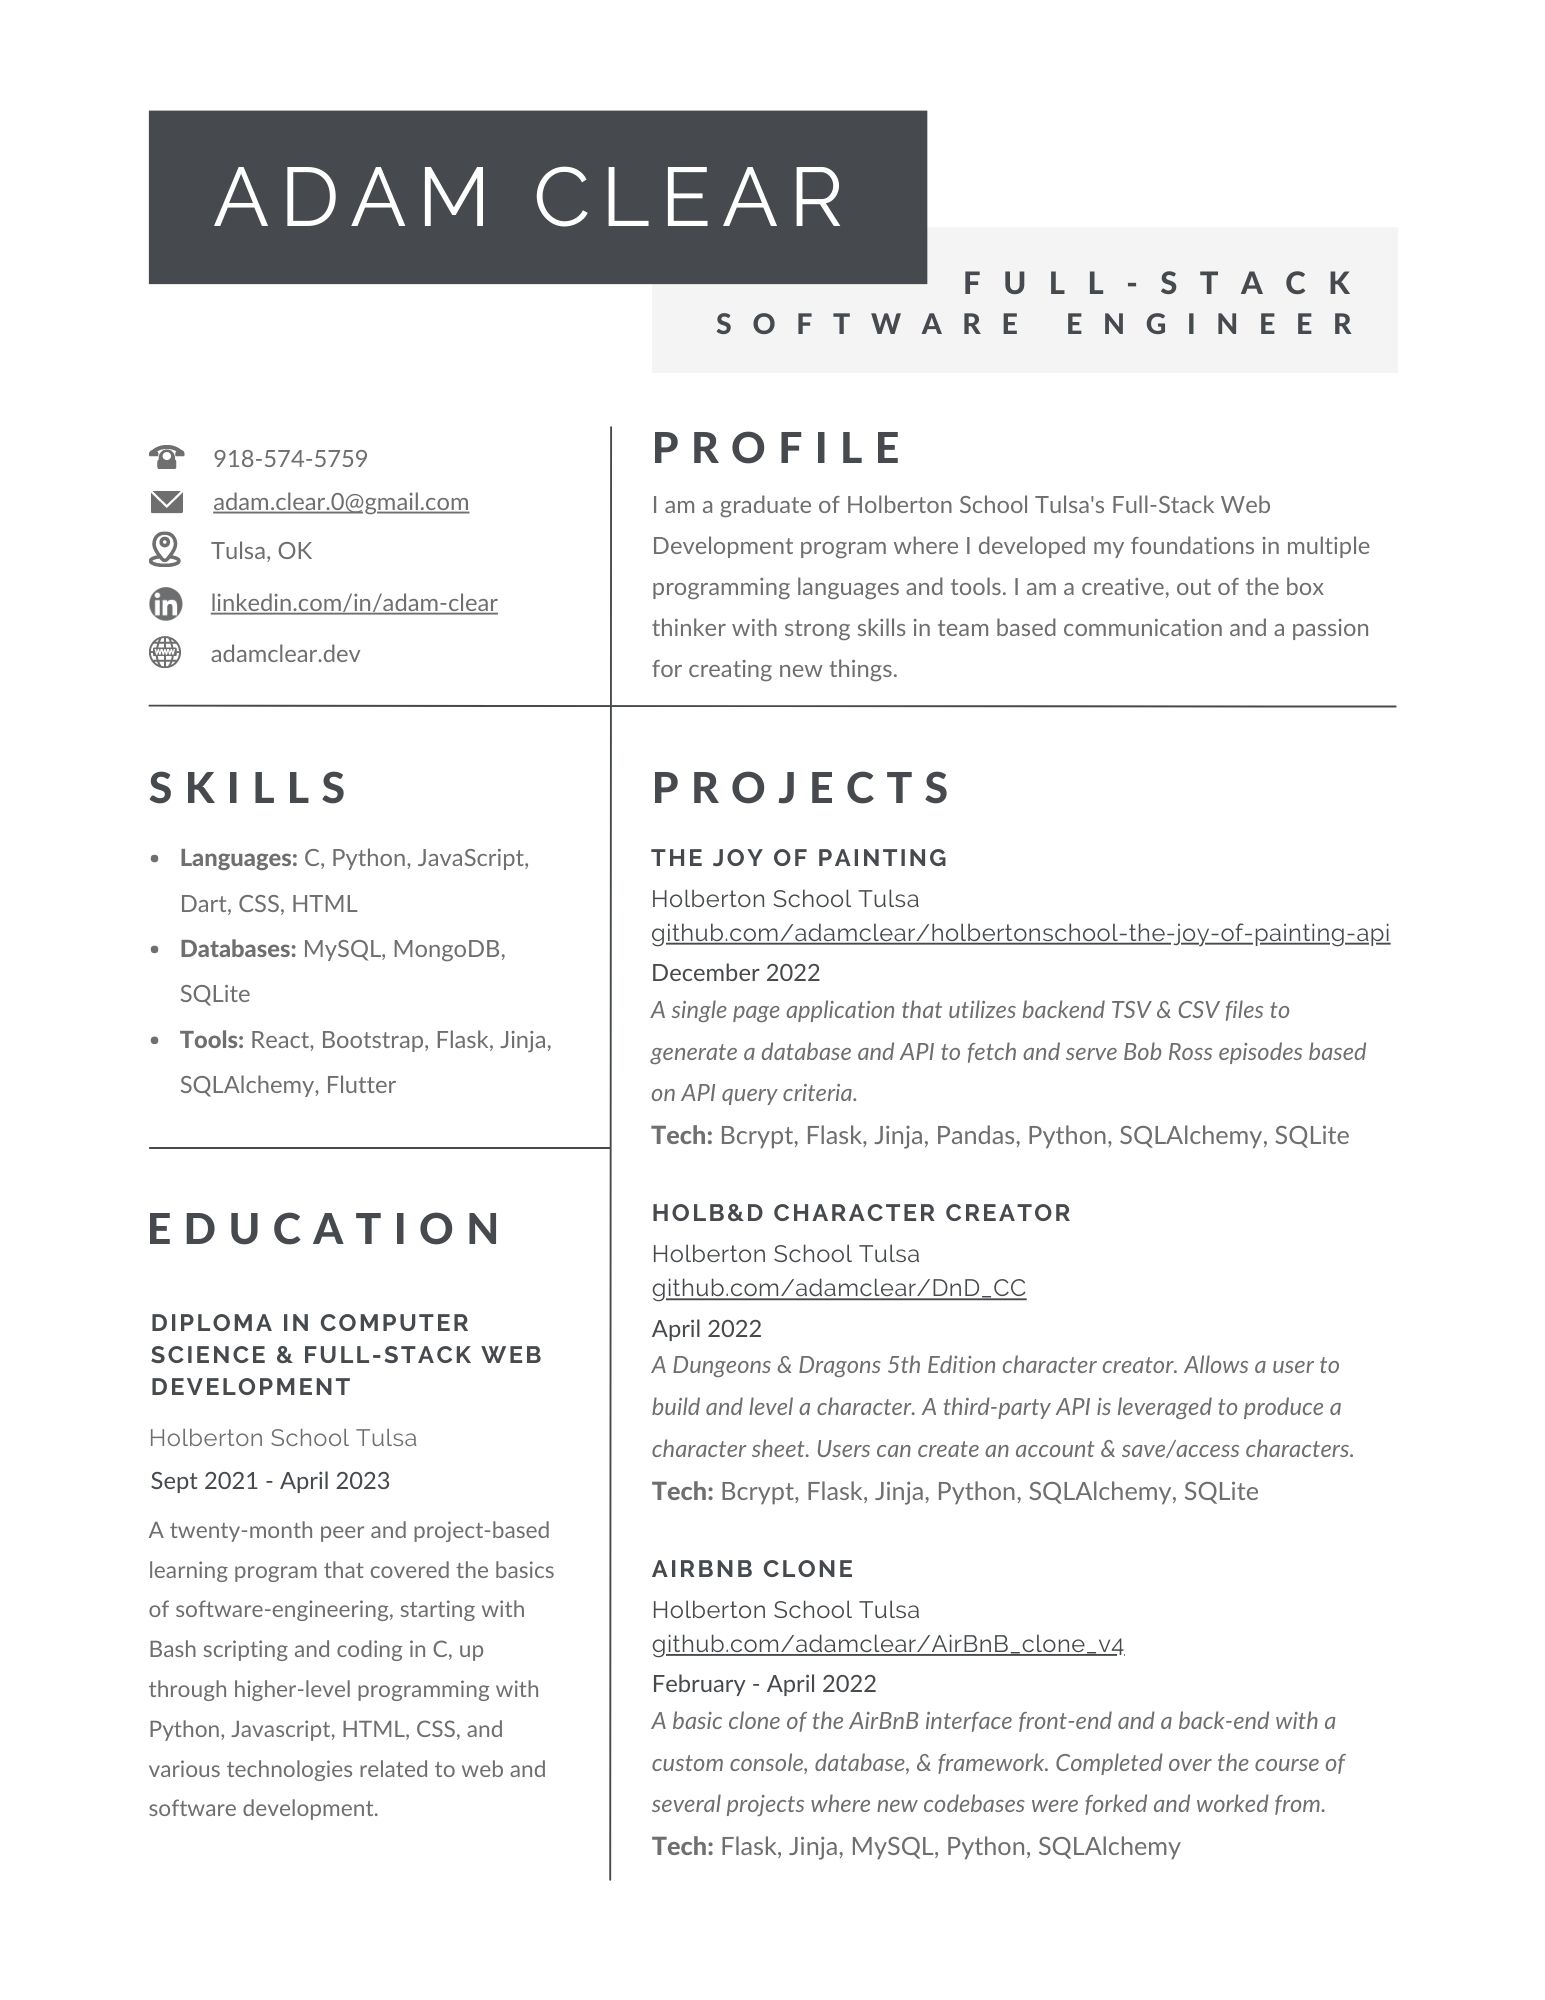
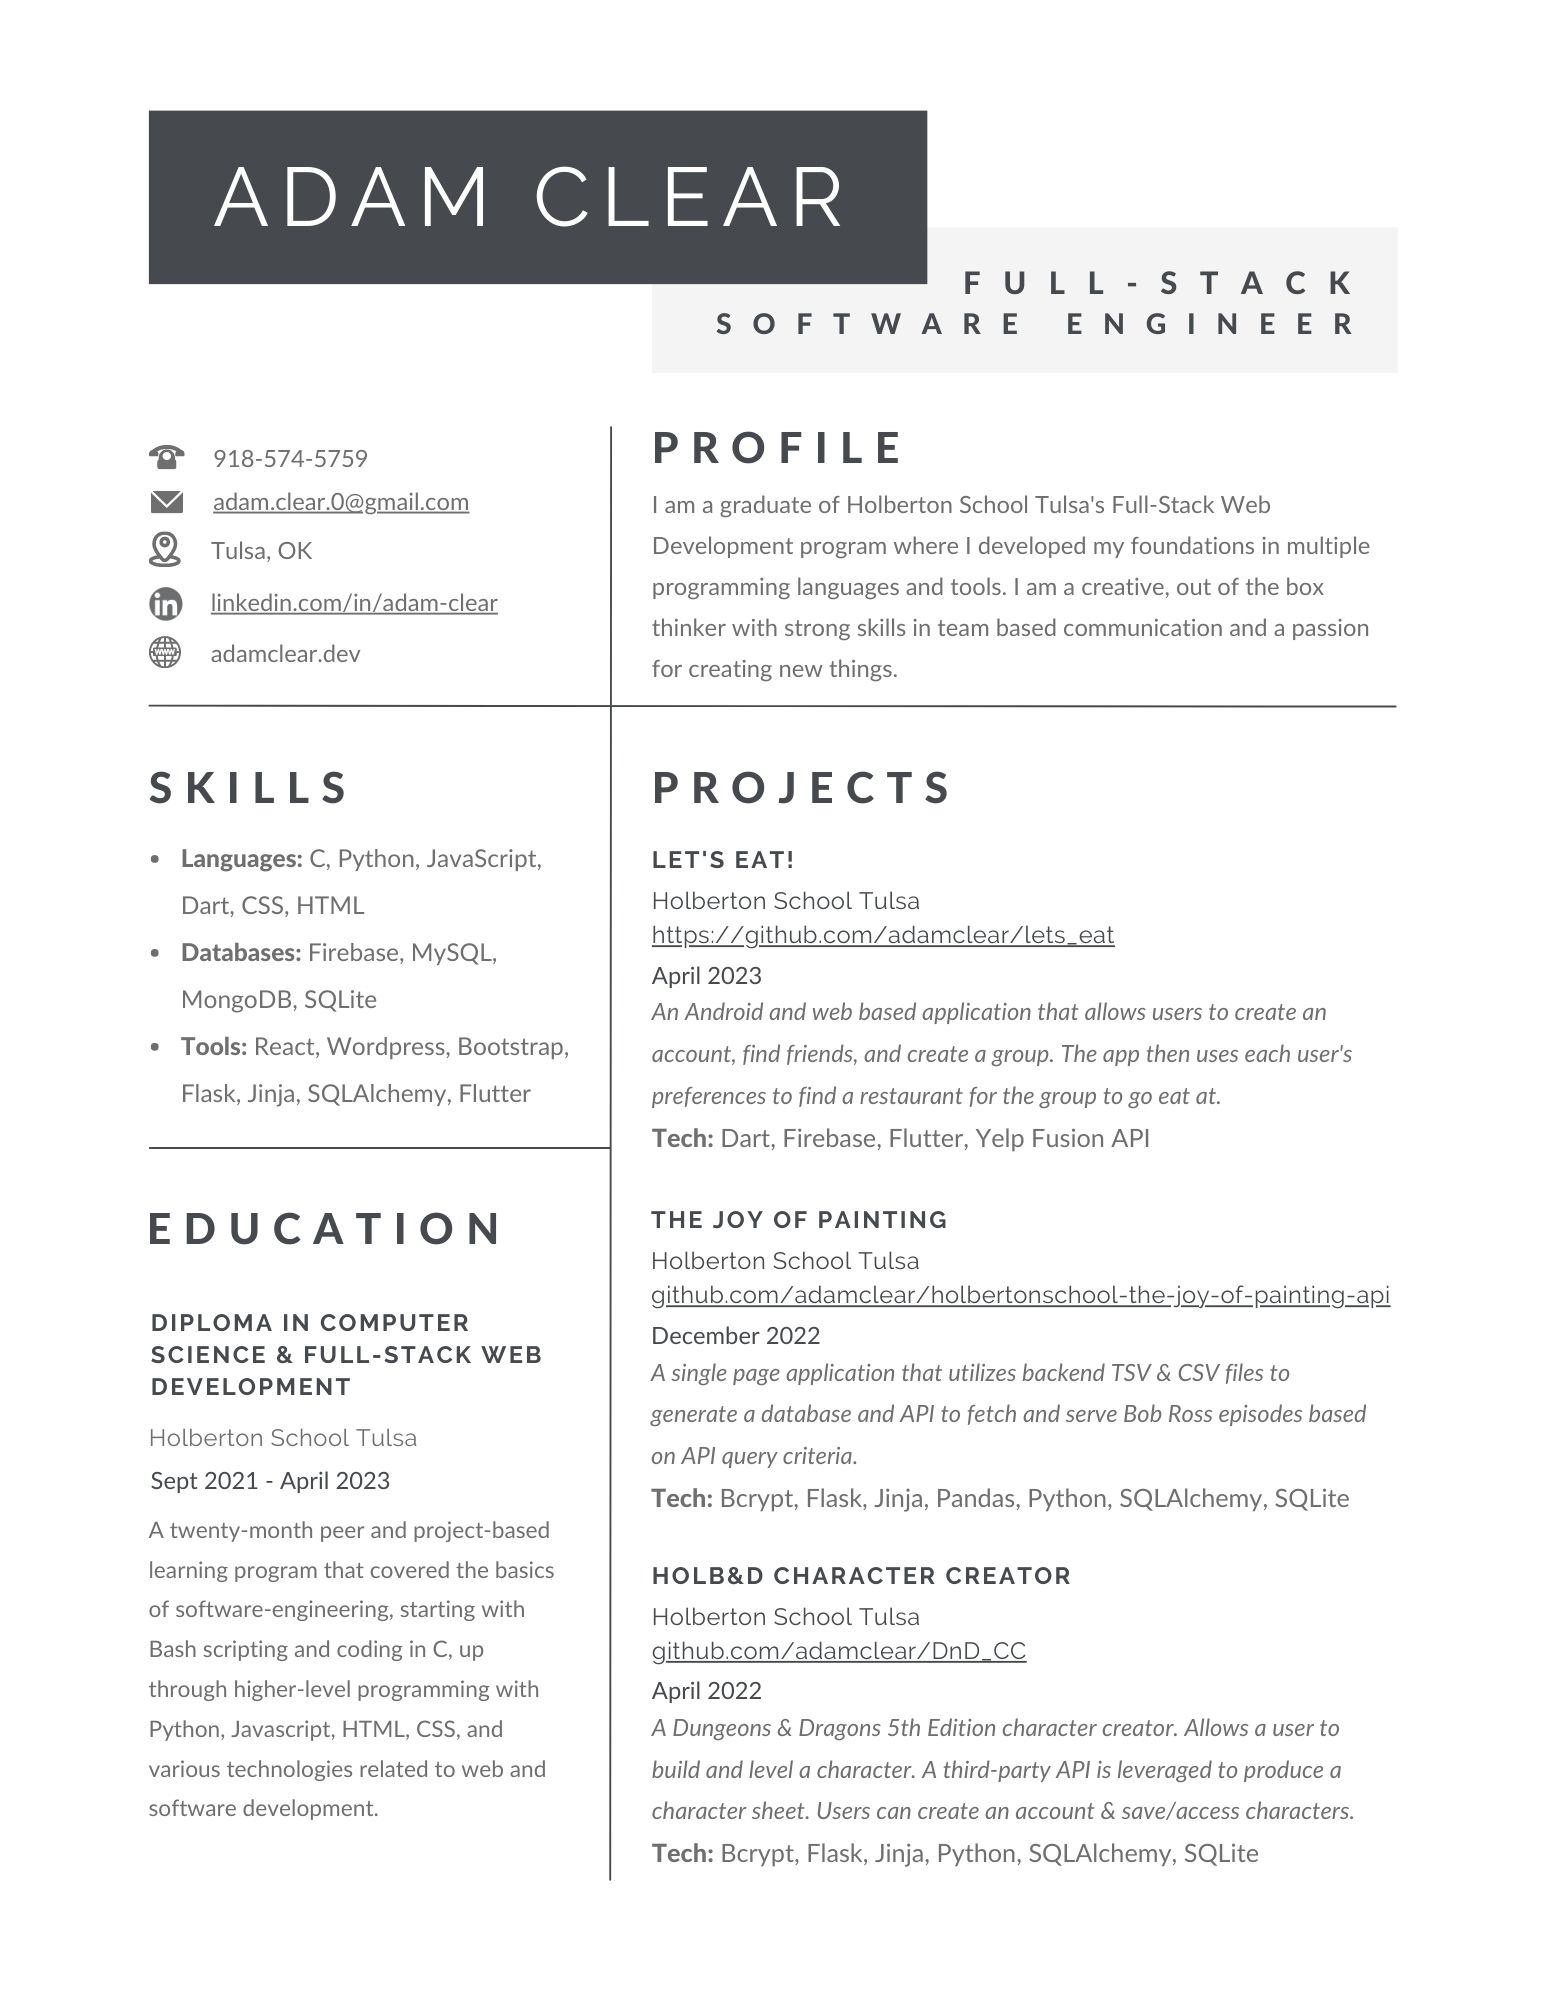
updated with Let's Eat!

Changed region(s): [[0.4039, 0.403, 0.901, 0.93], [0.0932, 0.403, 0.3728, 0.558], [0.8388, 0.558, 0.8699, 0.589]]

diff --git a/personal_website/src/Body/Portfolio/Portfolio.js b/personal_website/src/Body/Portfolio/Portfolio.js
@@ -1,7 +1,7 @@
 import { css, StyleSheet } from 'aphrodite';
 import React from 'react';
 import DnDCC from '../../assets/DnDCC.jpg';
-import AirBnB from '../../assets/AirBnB.jpg';
+import LetsEat from '../../assets/LetsEat.jpg';
 import JoP from '../../assets/JoP.jpg';
 
 const styles = StyleSheet.create({
@@ -104,6 +104,28 @@ export function Portfolio() {
 			<div className={css(styles.projectSection)}>
 				<div className={css(styles.projectContainer)}>
 					<h3 className={css(styles.projectTitle)}>
+						Let's Eat!
+					</h3>
+					<a className={css(styles.gitLink)}
+							 href="https://github.com/adamclear/lets_eat"
+							 target="_blank">
+						<div className={css(styles.projectImage)}>
+						<img src={LetsEat} className={css(styles.image)} />
+					</div>
+					</a>
+					<div className={css(styles.projectDescription)}>
+						An Android and web based application that allows users to create 
+						an account, find friends, and create a group. The app then uses 
+						each user's preferences to find a restaurant for the group to go 
+						eat at.
+					</div>
+					<div className={css(styles.projectTech)}>
+						Tech: Dart, Firebase, Flutter, Yelp Fusion API
+					</div>
+				</div>
+				<div className={css(styles.separator)}></div>
+				<div className={css(styles.projectContainer)}>
+					<h3 className={css(styles.projectTitle)}>
 						HolB&D Character Creator
 					</h3>
 					<a className={css(styles.gitLink)}
@@ -144,26 +166,6 @@ export function Portfolio() {
 					</div>
 				</div>
 				<div className={css(styles.separator)}></div>
-				<div className={css(styles.projectContainer)}>
-					<h3 className={css(styles.projectTitle)}>
-						AirBnB Clone
-					</h3>
-					<a className={css(styles.gitLink)}
-							 href="https://github.com/adamclear/AirBnB_clone_v4"
-							 target="_blank">
-						<div className={css(styles.projectImage)}>
-							<img src={AirBnB} className={css(styles.image)} />
-						</div>
-					</a>
-					<div className={css(styles.projectDescription)}>
-						A basic clone of the AirBnB interface front-end and a back-end with 
-						a custom console, database, & framework. Completed over the course 
-						of several projects where new codebases were forked and worked from.
-					</div>
-					<div className={css(styles.projectTech)}>
-						Tech: Flask, Jinja, MySQL, Python, SQLAlchemy
-					</div>
-				</div>
 			</div>
 		</div>
 	)
